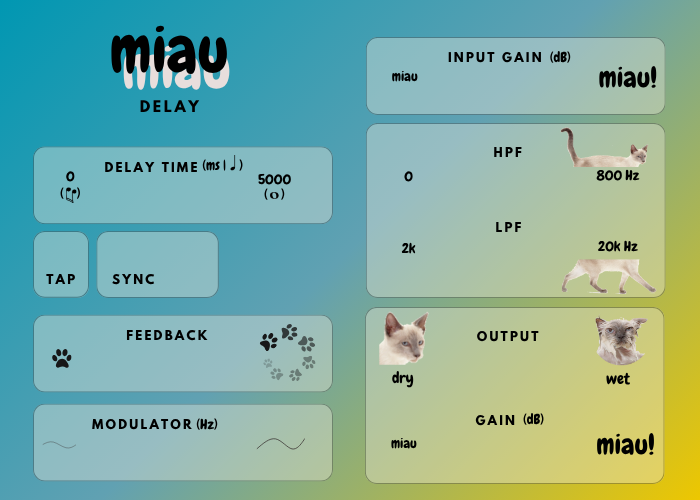
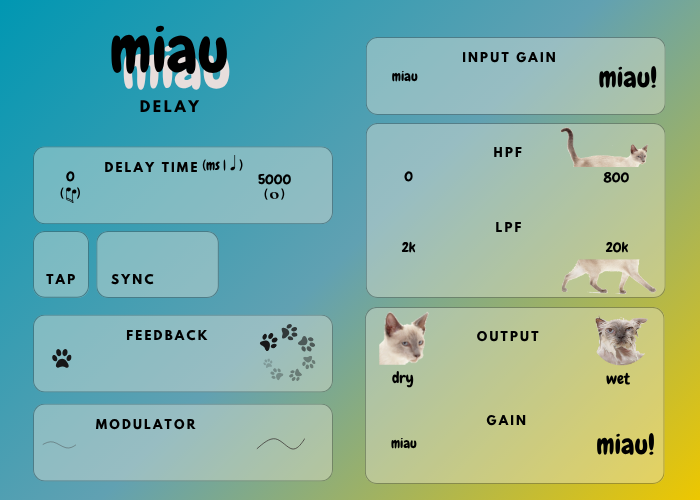
💄 actualizar interfaz

diff --git a/Source/PluginEditor.cpp b/Source/PluginEditor.cpp
@@ -21,6 +21,7 @@ MiauDelayAudioProcessorEditor::MiauDelayAudioProcessorEditor(MiauDelay& p)
     // Delay time slider
     prepareSlider(delayTimeSlider);
     delayTimeAttach = std::make_unique<juce::AudioProcessorValueTreeState::SliderAttachment>(audioProcessor.apvts, "DelayTime", delayTimeSlider);
+    delayTimeSlider.setTextValueSuffix(" ms");
 
     // Feedback slider
     prepareSlider(feedbackSlider);
@@ -29,22 +30,51 @@ MiauDelayAudioProcessorEditor::MiauDelayAudioProcessorEditor(MiauDelay& p)
     // DryWet slider
     prepareSlider(dryWetSlider);
     dryWetAttach = std::make_unique<juce::AudioProcessorValueTreeState::SliderAttachment>(audioProcessor.apvts, "DryWet", dryWetSlider);
+    // convertir etiqueta de 0-1 a porcentaje
+    dryWetSlider.textFromValueFunction = [](double value)
+        {
+            if (value <= 0.0)
+                return juce::String("0 %");
+            double percentage = value*100;
+            return juce::String(percentage) + " %";
+        };
+    dryWetSlider.updateText();
 
     // inputGain slider
     prepareSlider(inputGainSlider);
     inputGainAttach = std::make_unique<juce::AudioProcessorValueTreeState::SliderAttachment>(audioProcessor.apvts, "InputGain", inputGainSlider);
-
+    // convertir etiqueta de 0-1 a dBs
+    inputGainSlider.textFromValueFunction = [](double value)
+        {
+            if (value <= 0.0)
+                return juce::String("-inf dB");
+            double dB = 20.0 * std::log10(value);
+            return juce::String(dB, 1) + " dB";
+        };
+    inputGainSlider.updateText();
+ 
     // outputGain slider
     prepareSlider(outputGainSlider);
     outputGainAttach = std::make_unique<juce::AudioProcessorValueTreeState::SliderAttachment>(audioProcessor.apvts, "OutputGain", outputGainSlider);
+    // convertir etiqueta de 0-1 a dBs
+    outputGainSlider.textFromValueFunction = [](double value)
+        {
+            if (value <= 0.0)
+                return juce::String("-inf dB");
+            double dB = 20.0 * std::log10(value);
+            return juce::String(dB, 1) + " dB";
+        };
+    outputGainSlider.updateText();
 
     // hpf slider
     prepareSlider(hpfSlider);
     hpfAttach = std::make_unique<juce::AudioProcessorValueTreeState::SliderAttachment>(audioProcessor.apvts, "HPFFreq", hpfSlider);
+    hpfSlider.setTextValueSuffix(" Hz");
 
     // lpf slider
     prepareSlider(lpfSlider);
     lpfAttach = std::make_unique<juce::AudioProcessorValueTreeState::SliderAttachment>(audioProcessor.apvts, "LPFFreq", lpfSlider);
+    lpfSlider.setTextValueSuffix(" Hz");
 
     // Configurar el componente de tap tempo
     // Callback para actualizar el parámetro DelayTime mapeando newDelayTime de ms a un valor normalizado
@@ -64,7 +94,7 @@ MiauDelayAudioProcessorEditor::MiauDelayAudioProcessorEditor(MiauDelay& p)
         {
             updateSliderVisibility();
         };
-    syncActive.setImages(false, true, true, huellaImg, 0.5, juce::Colour(230, 255, 255), huellaImg, 0.5, juce::Colour(230, 255, 255), huellaImg, 0.8, juce::Colour(251, 222, 89));
+    syncActive.setImages(false, true, true, toggleOffImg, 0.9, juce::Colour(), toggleOffImg, 0.9, juce::Colour(), toggleOnImg, 0.9, juce::Colour());
     addAndMakeVisible(syncActive);
 
     // Sync time slider
@@ -93,10 +123,11 @@ MiauDelayAudioProcessorEditor::MiauDelayAudioProcessorEditor(MiauDelay& p)
     // lfo slider
     prepareSlider(lfoSlider);
     lfoAttach = std::make_unique<juce::AudioProcessorValueTreeState::SliderAttachment>(audioProcessor.apvts, "LFO", lfoSlider);
+    lfoSlider.setTextValueSuffix(" Hz");
 
     // lfo active
     lfoActive.setClickingTogglesState(true);
-    lfoActive.setImages(false, true, true, huellaImg, 0.3, juce::Colour(230, 255, 255), huellaImg, 0.3, juce::Colour(230, 255, 255), huellaImg, 1.0, juce::Colour(251, 222, 89));
+    lfoActive.setImages(false, true, true, toggleOffImg, 0.9, juce::Colour(), toggleOffImg, 0.9, juce::Colour(), toggleOnImg, 0.9, juce::Colour());
     lfoActiveAttach = std::make_unique<juce::AudioProcessorValueTreeState::ButtonAttachment>(audioProcessor.apvts, "ActiveLFO", lfoActive);
     addAndMakeVisible(lfoActive);
 
@@ -186,10 +217,10 @@ void MiauDelayAudioProcessorEditor::prepareSlider(juce::Slider& slider)
 {
     slider.setSliderStyle(juce::Slider::SliderStyle::LinearHorizontal);
     slider.setTextBoxStyle(juce::Slider::TextBoxBelow, false, 55, 20);
-    addAndMakeVisible(slider);
-
+   
     slider.setLookAndFeel(&sliderLookAndFeel);
-    slider.addListener(this);
+    slider.addListener(this); 
+    addAndMakeVisible(slider);
 }
 
 //==============================================================================
@@ -205,12 +236,12 @@ void MiauDelayAudioProcessorEditor::resized()
     delayTimeSlider.setBounds(78, 174, 173, 42);
     syncTimeSlider.setBounds(78, 174, 173, 42);
 
-    tapTempoComp.setBounds(49, 244, 20, 20);
+    tapTempoComp.setBounds(50, 244, 20, 20);
     feedbackSlider.setBounds(78, 342, 173, 42);
     dryWetSlider.setBounds(418, 349, 173, 42);
 
-    syncActive.setBounds(123, 239, 20, 20);
-    syncTripletsActive.setBounds(156, 240, 62, 31);
+    syncActive.setBounds(114, 247, 33, 15);
+    syncTripletsActive.setBounds(154, 250, 62, 31);
 
     inputGainSlider.setBounds(418, 65, 173, 42);
     outputGainSlider.setBounds(418, 434, 173, 42);
@@ -219,7 +250,7 @@ void MiauDelayAudioProcessorEditor::resized()
     lpfSlider.setBounds(418, 238, 173, 42);
 
     lfoSlider.setBounds(78, 431, 173, 42);
-    lfoActive.setBounds(225, 410, 20, 20);
+    lfoActive.setBounds(205, 416, 33, 15);
 
     // Ubicación del preset management
     presetCombo.setBounds(465, 9, 140, 20);

diff --git a/Source/PluginProcessor.cpp b/Source/PluginProcessor.cpp
@@ -39,9 +39,9 @@ juce::AudioProcessorValueTreeState::ParameterLayout MiauDelay::createParameters(
     parameters.add(std::make_unique<juce::AudioParameterInt>(juce::ParameterID{ "DelayTime", 1 }, "DelayTime", 0, 5000, 250));
     parameters.add(std::make_unique<juce::AudioParameterFloat>(juce::ParameterID{ "DryWet", 1 }, "DryWet", 0.0f, 1.0f, 0.5f));
     parameters.add(std::make_unique<juce::AudioParameterFloat>(juce::ParameterID{ "Feedback", 1 }, "Feedback", 0.0f, 0.99f, 0.5f));
-    parameters.add(std::make_unique<juce::AudioParameterFloat>(juce::ParameterID{ "InputGain", 1 }, "InputGain", 0.0f, 2.0f, 1.0f));
-    parameters.add(std::make_unique<juce::AudioParameterFloat>(juce::ParameterID{ "OutputGain", 1 }, "OutputGain", 0.0f, 2.0f, 1.0f));
-    parameters.add(std::make_unique<juce::AudioParameterInt>(juce::ParameterID{ "HPFFreq", 1 }, "HPFFreq", 0, 500, 0));
+    parameters.add(std::make_unique<juce::AudioParameterFloat>(juce::ParameterID{ "InputGain", 1 }, "InputGain", 0.0f, 4.0f, 1.0f));
+    parameters.add(std::make_unique<juce::AudioParameterFloat>(juce::ParameterID{ "OutputGain", 1 }, "OutputGain", 0.0f, 4.0f, 1.0f));
+    parameters.add(std::make_unique<juce::AudioParameterInt>(juce::ParameterID{ "HPFFreq", 1 }, "HPFFreq", 0, 800, 0));
     parameters.add(std::make_unique<juce::AudioParameterInt>(juce::ParameterID{ "LPFFreq", 1 }, "LPFFreq", 2000, 20000, 20000));
     parameters.add(std::make_unique<juce::AudioParameterBool>(juce::ParameterID{ "SyncActive", 1 }, "SyncActive", false));
     parameters.add(std::make_unique<juce::AudioParameterChoice>(juce::ParameterID{ "SyncTime", 1 }, "SyncTime", juce::StringArray{ "1/16", "1/8", "1/4", "1/2", "1"}, 0));

diff --git a/LookAndFeel/ButtonLookAndFeel.h b/LookAndFeel/ButtonLookAndFeel.h
@@ -17,19 +17,31 @@ public:
 	ButtonLookAndFeel()
 	{
 		buttonImage = juce::ImageCache::getFromMemory(BinaryData::huella_png, BinaryData::huella_pngSize);
+		imageToggleOn = juce::ImageCache::getFromMemory(BinaryData::toggleon_png, BinaryData::toggleon_pngSize);
+		imageToggleOff = juce::ImageCache::getFromMemory(BinaryData::toggleoff_png, BinaryData::toggleoff_pngSize);
+
 	
 		//setColour(juce::Button::backgroundColour, juce::Colours::darkgrey);
+		
 	}
 
 	virtual ~ButtonLookAndFeel() {}
 
-	void drawButtonBackground(juce::Graphics& buttonImage, juce::Button& button, const juce::Colour& backgroundColour, bool, bool isButtonDown)
+	void setImages(juce::Graphics& buttonImage, juce::Graphics& imageToggleOn, juce::Graphics& imageToggleOff) {
+	}
+
+	/*void drawButtonBackground(juce::Graphics& buttonImage, juce::Button& button, const juce::Colour& backgroundColour, bool, bool isButtonDown)
 	{
 		buttonImage.fillRect(100, 100, 100, 100);
 		buttonImage.setColour(juce::Colours::aqua);
 		//buttonImage.drawImage(buttonImage, )
-	}
+	}*/
 
 private:
 	juce::Image buttonImage;
+	juce::Image imageToggleOn;
+	juce::Image imageToggleOff;
+
+
+
 };

diff --git a/Source/PluginEditor.h b/Source/PluginEditor.h
@@ -66,6 +66,9 @@ private:
     juce::ImageComponent backgroundComponent;
 
     juce::Image huellaImg{ juce::ImageCache::getFromMemory(BinaryData::huella_png, BinaryData::huella_pngSize) };
+    juce::Image toggleOnImg{ juce::ImageCache::getFromMemory(BinaryData::toggleon_png, BinaryData::toggleon_pngSize) };
+    juce::Image toggleOffImg{ juce::ImageCache::getFromMemory(BinaryData::toggleoff_png, BinaryData::toggleoff_pngSize) };
+
     juce::Image tresilloImg{ juce::ImageCache::getFromMemory(BinaryData::tresillo_png, BinaryData::tresillo_pngSize) };
 
 

diff --git a/GUI/TapTempoComponent.cpp b/GUI/TapTempoComponent.cpp
@@ -2,7 +2,7 @@
 
 TapTempoComponent::TapTempoComponent()
 {
-    tapButton.setImages(false, true, true, buttonImage, 0.01, juce::Colours::black, buttonImage, 0.3, juce::Colours::black, buttonImage, 0.3, juce::Colour(251, 222, 89));
+    tapButton.setImages(false, true, true, buttonImage, 0.01, juce::Colour(230, 255, 255), buttonImage, 0.3, juce::Colours::black, buttonImage, 0.3, juce::Colour(251, 222, 89));
     addAndMakeVisible(tapButton);
     tapButton.onClick = [this] { tapButtonClicked(); };
 }

diff --git a/Source/PluginProcessor.h b/Source/PluginProcessor.h
@@ -79,6 +79,8 @@ public:
     // Inicializar los presets por defecto
     void createDefaultPresets();
 
+    void parameterChanged(const juce::String& parameterID, float newValue);
+
 private:
     Delay delay;
     DryWet dryWet;
